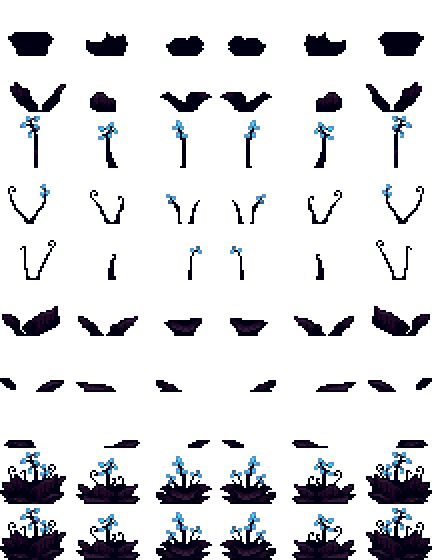
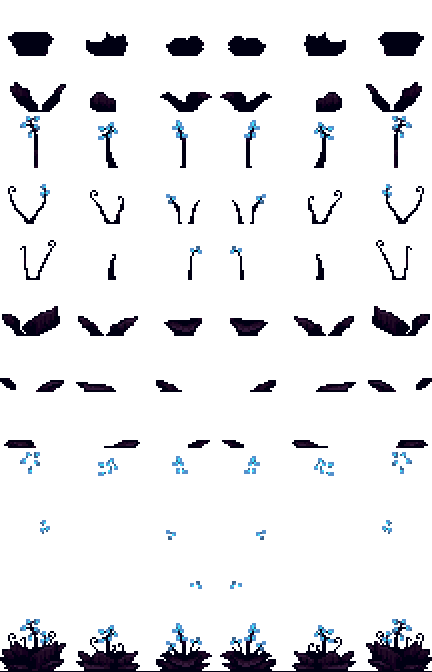
会闪退

diff --git a/Sources/Modules/MythModule/TheFirefly/TileSpin.cs b/Sources/Modules/MythModule/TheFirefly/TileSpin.cs
@@ -3,6 +3,13 @@
     internal class TileSpin
     {
         public static Dictionary<(int, int), Vector2> TileRotation = new Dictionary<(int, int), Vector2>();
+        /// <summary>
+        /// 更新旋转
+        /// </summary>
+        /// <param name="i"></param>
+        /// <param name="j"></param>
+        /// <param name="k1"></param>
+        /// <param name="k2"></param>
         public void Update(int i, int j, float k1 = 0.75f, float k2 = 0.13f)
         {
             if (TileRotation.ContainsKey((i, j)) && !Main.gamePaused)
@@ -19,6 +26,51 @@
                 }
             }
         }
+        /// <summary>
+        /// 更新贴图旋转，并抖落蓝色荧光花粉dust
+        /// </summary>
+        /// <param name="i"></param>
+        /// <param name="j"></param>
+        /// <param name="k1"></param>
+        /// <param name="k2"></param>
+        public void UpdateBlackShrub(int i, int j, float k1 = 0.75f, float k2 = 0.13f, Vector2 offset = new Vector2(), float Addx = 0, float Addy = 0, int width = 16, int height = 16)
+        {
+            if (TileRotation.ContainsKey((i, j)) && !Main.gamePaused)
+            {
+                float rot;
+                float Omega;
+                Omega = TileRotation[(i, j)].X;
+                rot = TileRotation[(i, j)].Y;
+                Omega = Omega * 0.75f - rot * 0.13f;
+                TileRotation[(i, j)] = new Vector2(Omega, rot + Omega);
+                float Strength = Math.Abs(Omega) + Math.Abs(rot);
+                if(Main.rand.NextBool(Math.Clamp((int)(100 - Strength * 1200f * k1), 1, 900)))
+                {
+                    Dust d = Dust.NewDustDirect(new Vector2(i * 16 + Addx, j * 16 + Addy) + offset.RotatedBy(rot), width, height, ModContent.DustType<Dusts.BlueParticleDark>());
+                    Dust d2 = Dust.NewDustDirect(new Vector2(i * 16 + Addx, j * 16 + Addy) + offset.RotatedBy(rot), width, height, ModContent.DustType<Dusts.BlueParticle>());
+                    d.alpha = (int)(255 - Strength * 2000f * k1);
+                    d2.scale = Strength * 10f;
+                    d.scale *= k1;
+                    d.velocity = (offset.RotatedBy(rot) - offset.RotatedBy(rot - Omega)) * k1 * 1f;
+                    d2.scale *= k1;
+                    d2.velocity = (offset.RotatedBy(rot) - offset.RotatedBy(rot - Omega)) * k1 * 1f;
+                }
+                if (Math.Abs(Omega) < 0.001f && Math.Abs(rot) < 0.001f)
+                {
+                    TileRotation.Remove((i, j));
+                }
+            }
+        }
+        /// <summary>
+        /// 专门绘制吊灯的
+        /// </summary>
+        /// <param name="i"></param>
+        /// <param name="j"></param>
+        /// <param name="tex"></param>
+        /// <param name="offsetX"></param>
+        /// <param name="offsetY"></param>
+        /// <param name="specialColor"></param>
+        /// <param name="color"></param>
         public void DrawRotatedChandelier(int i, int j, Texture2D tex, float offsetX = 0, float offsetY = 0, bool specialColor = false, Color color = new Color())
         {
             float rot = 0;
@@ -43,7 +95,16 @@
                 Main.spriteBatch.Draw(tex, new Vector2(i * 16 + offsetX, j * 16 + offsetY) + zero - Main.screenPosition, new Rectangle(tile.TileFrameX - 18, 0, 54, 48), c, rot, new Vector2(27, 0), 1f, SpriteEffects.None, 0f);
             }
         }
-
+        /// <summary>
+        /// 专门绘制吊灯的
+        /// </summary>
+        /// <param name="i"></param>
+        /// <param name="j"></param>
+        /// <param name="tex"></param>
+        /// <param name="offsetX"></param>
+        /// <param name="offsetY"></param>
+        /// <param name="specialColor"></param>
+        /// <param name="color"></param>
         public void DrawRotatedLamp(int i, int j, Texture2D tex, float offsetX = 0, float offsetY = 0, bool specialColor = false, Color color = new Color())
         {
             float rot = 0;
@@ -68,7 +129,18 @@
                 Main.spriteBatch.Draw(tex, new Vector2(i * 16 + offsetX, j * 16 + offsetY) + zero - Main.screenPosition, new Rectangle(tile.TileFrameX, 0, 18, 34), c, rot, new Vector2(9, 0), 1f, SpriteEffects.None, 0f);
             }
         }
-
+        /// <summary>
+        /// 画旋转物块
+        /// </summary>
+        /// <param name="i"></param>
+        /// <param name="j"></param>
+        /// <param name="tex"></param>
+        /// <param name="sourceRectangle"></param>
+        /// <param name="origin"></param>
+        /// <param name="offsetX"></param>
+        /// <param name="offsetY"></param>
+        /// <param name="specialColor"></param>
+        /// <param name="color"></param>
         public void DrawRotatedTile(int i, int j, Texture2D tex, Rectangle sourceRectangle, Vector2 origin, float offsetX = 0, float offsetY = 0, bool specialColor = false, Color color = new Color())
         {
             float rot = 0;
@@ -92,7 +164,20 @@
                 Main.spriteBatch.Draw(tex, new Vector2(i * 16 + offsetX, j * 16 + offsetY) + zero - Main.screenPosition, sourceRectangle, c, rot, origin, 1f, SpriteEffects.None, 0f);
             }
         }
-        public void DrawRotatedTile(int i, int j, Texture2D tex, Rectangle sourceRectangle, Vector2 origin, float offsetX = 0, float offsetY = 0, float kRot = 1)
+        /// <summary>
+        /// 画旋转物块
+        /// </summary>
+        /// <param name="i"></param>
+        /// <param name="j"></param>
+        /// <param name="tex"></param>
+        /// <param name="sourceRectangle"></param>
+        /// <param name="origin"></param>
+        /// <param name="offsetX"></param>
+        /// <param name="offsetY"></param>
+        /// <param name="kRot"></param>
+        /// <param name="specialColor"></param>
+        /// <param name="color"></param>
+        public void DrawRotatedTile(int i, int j, Texture2D tex, Rectangle sourceRectangle, Vector2 origin, float offsetX = 0, float offsetY = 0, float kRot = 1, bool specialColor = false, Color color = new Color())
         {
             float rot = 0;
             Vector2 zero = new Vector2(Main.offScreenRange, Main.offScreenRange);
@@ -101,9 +186,19 @@
                 zero = Vector2.Zero;
             }
             Color c = Lighting.GetColor(i, j);
+            if (specialColor)
+            {
+                c = color;
+            }
             if (TileRotation.ContainsKey((i, j)))
             {
                 rot = TileRotation[(i, j)].Y;
+                if (specialColor)
+                {
+                    float maxC = Math.Max(color.R / 255f, Math.Abs(rot * 3) + Math.Abs(TileRotation[(i, j)].X * 3));
+                    maxC = Math.Clamp(maxC, 0, 1);
+                    c = new Color(maxC, maxC, maxC, 0);
+                }
                 Main.spriteBatch.Draw(tex, new Vector2(i * 16 + offsetX, j * 16 + offsetY) + zero - Main.screenPosition, sourceRectangle, c, rot * kRot, origin, 1f, SpriteEffects.None, 0f);
             }
             else

diff --git a/Sources/Modules/MythModule/TheFirefly/Tiles/BlackStarShrubSmall.cs b/Sources/Modules/MythModule/TheFirefly/Tiles/BlackStarShrubSmall.cs
@@ -53,7 +53,7 @@ namespace Everglow.Sources.Modules.MythModule.TheFirefly.Tiles
                     {
                         if (!TileSpin.TileRotation.ContainsKey((i, j - tile.TileFrameY / 16 + 1)))
                         {
-                            TileSpin.TileRotation.Add((i, j - tile.TileFrameY / 16 + 1), new Vector2(-Math.Clamp(player.velocity.X, -1, 1) * 0.2f));
+                            TileSpin.TileRotation.Add((i, j - tile.TileFrameY / 16 + 1), new Vector2(Math.Clamp(player.velocity.X, -1, 1) * 0.2f));
                         }
                         else
                         {
@@ -63,7 +63,7 @@ namespace Everglow.Sources.Modules.MythModule.TheFirefly.Tiles
                             rot = TileSpin.TileRotation[(i, j - tile.TileFrameY / 16 + 1)].Y;
                             if (Math.Abs(Omega) < 0.04f && Math.Abs(rot) < 0.04f)
                             {
-                                TileSpin.TileRotation[(i, j - tile.TileFrameY / 16 + 1)] = new Vector2(Omega - Math.Clamp(player.velocity.X, -1, 1) * 0.2f, rot + Omega - Math.Clamp(player.velocity.X, -1, 1) * 0.2f);
+                                TileSpin.TileRotation[(i, j - tile.TileFrameY / 16 + 1)] = new Vector2(Omega + Math.Clamp(player.velocity.X, -1, 1) * 0.2f, rot + Omega + Math.Clamp(player.velocity.X, -1, 1) * 0.2f);
                             }
                             if (Math.Abs(Omega) < 0.001f && Math.Abs(rot) < 0.001f)
                             {
@@ -74,7 +74,7 @@ namespace Everglow.Sources.Modules.MythModule.TheFirefly.Tiles
 
                         if (!TileSpin.TileRotation.ContainsKey((i, j - tile.TileFrameY / 16)))
                         {
-                            TileSpin.TileRotation.Add((i, j - tile.TileFrameY / 16), new Vector2(-Math.Clamp(player.velocity.X, -1, 1) * 0.2f));
+                            TileSpin.TileRotation.Add((i, j - tile.TileFrameY / 16), new Vector2(Math.Clamp(player.velocity.X, -1, 1) * 0.2f));
                         }
                         else
                         {
@@ -84,7 +84,7 @@ namespace Everglow.Sources.Modules.MythModule.TheFirefly.Tiles
                             rot = TileSpin.TileRotation[(i, j - tile.TileFrameY / 16)].Y;
                             if (Math.Abs(Omega) < 0.04f && Math.Abs(rot) < 0.04f)
                             {
-                                TileSpin.TileRotation[(i, j - tile.TileFrameY / 16)] = new Vector2(Omega - Math.Clamp(player.velocity.X, -1, 1) * 0.2f, rot + Omega - Math.Clamp(player.velocity.X, -1, 1) * 0.2f);
+                                TileSpin.TileRotation[(i, j - tile.TileFrameY / 16)] = new Vector2(Omega + Math.Clamp(player.velocity.X, -1, 1) * 0.2f, rot + Omega + Math.Clamp(player.velocity.X, -1, 1) * 0.2f);
                             }
                             if (Math.Abs(Omega) < 0.001f && Math.Abs(rot) < 0.001f)
                             {
@@ -101,15 +101,16 @@ namespace Everglow.Sources.Modules.MythModule.TheFirefly.Tiles
             if (tile.TileFrameY == 16)
             {
                 TileSpin tileSpin = new TileSpin();
-                tileSpin.Update(i, j - tile.TileFrameY / 16);
+                tileSpin.UpdateBlackShrub(i, j - tile.TileFrameY / 16, 0.25f, 0.13f, new Vector2(0, -20), 0, 24);
                 tileSpin.Update(i, j - tile.TileFrameY / 16 + 1);
                 Texture2D tex = MythContent.QuickTexture("TheFirefly/Tiles/BlackStarShrubSmallDraw");
-                tileSpin.DrawRotatedTile(i, j - tile.TileFrameY / 16, tex, new Rectangle(tile.TileFrameX, 2, 48, 36),new Vector2(24, 36), 8, 36, 0.25f);
-                tileSpin.DrawRotatedTile(i, j - tile.TileFrameY / 16 + 1, tex, new Rectangle(tile.TileFrameX, 38, 48, 36), new Vector2(24, 36), 8, 20, 1.0f);
-                tileSpin.DrawRotatedTile(i, j - tile.TileFrameY / 16, tex, new Rectangle(tile.TileFrameX, 72, 48, 36), new Vector2(24, 36), 8, 36, 0.3f);
-                tileSpin.DrawRotatedTile(i, j - tile.TileFrameY / 16, tex, new Rectangle(tile.TileFrameX, 110, 48, 36), new Vector2(24, 36), 8, 36, 0.24f);
-                tileSpin.DrawRotatedTile(i, j - tile.TileFrameY / 16, tex, new Rectangle(tile.TileFrameX, 146, 48, 36), new Vector2(24, 36), 8, 36, 0.19f);
-                tileSpin.DrawRotatedTile(i, j - tile.TileFrameY / 16, tex, new Rectangle(tile.TileFrameX, 182, 48, 36), new Vector2(24, 36), 8, 36, 0.27f);
+                tileSpin.DrawRotatedTile(i, j - tile.TileFrameY / 16, tex, new Rectangle(tile.TileFrameX, 2, 48, 36),new Vector2(24, 36), 8, 40, 0.25f);
+                tileSpin.DrawRotatedTile(i, j - tile.TileFrameY / 16 + 1, tex, new Rectangle(tile.TileFrameX, 38, 48, 36), new Vector2(24, 36), 8, 24, 1.0f);
+                tileSpin.DrawRotatedTile(i, j - tile.TileFrameY / 16 + 1, tex, new Rectangle(tile.TileFrameX, 218, 48, 36), new Vector2(24, 36), 8, 24, 1.0f, true, new Color(0.57f, 0.57f, 0.57f, 0));
+                tileSpin.DrawRotatedTile(i, j - tile.TileFrameY / 16, tex, new Rectangle(tile.TileFrameX, 72, 48, 36), new Vector2(24, 36), 8, 40, 0.3f);
+                tileSpin.DrawRotatedTile(i, j - tile.TileFrameY / 16, tex, new Rectangle(tile.TileFrameX, 110, 48, 36), new Vector2(24, 36), 8, 40, 0.24f);
+                tileSpin.DrawRotatedTile(i, j - tile.TileFrameY / 16, tex, new Rectangle(tile.TileFrameX, 146, 48, 36), new Vector2(24, 36), 8, 40, 0.19f);
+                tileSpin.DrawRotatedTile(i, j - tile.TileFrameY / 16, tex, new Rectangle(tile.TileFrameX, 182, 48, 36), new Vector2(24, 36), 8, 40, 0.27f);
             }
             return false;
         }

diff --git a/Sources/Modules/MythModule/TheFirefly/Tiles/BlackStarShrub.cs b/Sources/Modules/MythModule/TheFirefly/Tiles/BlackStarShrub.cs
@@ -126,15 +126,18 @@ namespace Everglow.Sources.Modules.MythModule.TheFirefly.Tiles
                 Texture2D tex = MythContent.QuickTexture("TheFirefly/Tiles/BlackStarShrubDraw");
                 tileSpin.Update(i, j - tile.TileFrameY / 16 + 2);
                 tileSpin.Update(i, j - tile.TileFrameY / 16 + 1);
-                tileSpin.Update(i, j - tile.TileFrameY / 16);
-                tileSpin.DrawRotatedTile(i, j - tile.TileFrameY / 16, tex, new Rectangle(tile.TileFrameX, 0, 72, 56), new Vector2(36, 56), 8, 50, 1);
-                tileSpin.DrawRotatedTile(i, j - tile.TileFrameY / 16, tex, new Rectangle(tile.TileFrameX, 58, 72, 56), new Vector2(36, 56), 8, 50, 1.2f);
-                tileSpin.DrawRotatedTile(i, j - tile.TileFrameY / 16 + 2, tex, new Rectangle(tile.TileFrameX, 114, 72, 56), new Vector2(36, 56), 8, 18, 1.04f);
-                tileSpin.DrawRotatedTile(i, j - tile.TileFrameY / 16 + 2, tex, new Rectangle(tile.TileFrameX, 170, 72, 56), new Vector2(36, 56), 8, 18, 0.75f);
-                tileSpin.DrawRotatedTile(i, j - tile.TileFrameY / 16 + 2, tex, new Rectangle(tile.TileFrameX, 226, 72, 56), new Vector2(36, 56), 8, 18, 0.49f);
-                tileSpin.DrawRotatedTile(i, j - tile.TileFrameY / 16 + 1, tex, new Rectangle(tile.TileFrameX, 282, 72, 56), new Vector2(36, 56), 8, 34, 0.94f);
-                tileSpin.DrawRotatedTile(i, j - tile.TileFrameY / 16 + 1, tex, new Rectangle(tile.TileFrameX, 338, 72, 56), new Vector2(36, 56), 8, 34, 0.24f);
-                tileSpin.DrawRotatedTile(i, j - tile.TileFrameY / 16 + 1, tex, new Rectangle(tile.TileFrameX, 394, 72, 56), new Vector2(36, 56), 8, 34, 0.13f);         
+                tileSpin.UpdateBlackShrub(i, j - tile.TileFrameY / 16, 0.85f, 0.13f, new Vector2(0, -60), 0, 54, 16, 32);
+                tileSpin.DrawRotatedTile(i, j - tile.TileFrameY / 16, tex, new Rectangle(tile.TileFrameX, 0, 72, 56), new Vector2(36, 56), 8, 54, 1);
+                tileSpin.DrawRotatedTile(i, j - tile.TileFrameY / 16, tex, new Rectangle(tile.TileFrameX, 58, 72, 56), new Vector2(36, 56), 8, 54, 1.2f);
+                tileSpin.DrawRotatedTile(i, j - tile.TileFrameY / 16 + 2, tex, new Rectangle(tile.TileFrameX, 114, 72, 56), new Vector2(36, 56), 8, 22, 1.04f);
+                tileSpin.DrawRotatedTile(i, j - tile.TileFrameY / 16 + 2, tex, new Rectangle(tile.TileFrameX, 170, 72, 56), new Vector2(36, 56), 8, 22, 0.75f);
+                tileSpin.DrawRotatedTile(i, j - tile.TileFrameY / 16 + 2, tex, new Rectangle(tile.TileFrameX, 226, 72, 56), new Vector2(36, 56), 8, 22, 0.49f);
+                tileSpin.DrawRotatedTile(i, j - tile.TileFrameY / 16 + 2, tex, new Rectangle(tile.TileFrameX, 450, 72, 56), new Vector2(36, 56), 8, 22, 1.04f, true, new Color(0.67f, 0.67f, 0.67f, 0));
+                tileSpin.DrawRotatedTile(i, j - tile.TileFrameY / 16 + 2, tex, new Rectangle(tile.TileFrameX, 506, 72, 56), new Vector2(36, 56), 8, 22, 0.75f, true, new Color(0.67f, 0.67f, 0.67f, 0));
+                tileSpin.DrawRotatedTile(i, j - tile.TileFrameY / 16 + 2, tex, new Rectangle(tile.TileFrameX, 562, 72, 56), new Vector2(36, 56), 8, 22, 0.49f, true, new Color(0.67f, 0.67f, 0.67f, 0));
+                tileSpin.DrawRotatedTile(i, j - tile.TileFrameY / 16 + 1, tex, new Rectangle(tile.TileFrameX, 282, 72, 56), new Vector2(36, 56), 8, 38, 0.94f);
+                tileSpin.DrawRotatedTile(i, j - tile.TileFrameY / 16 + 1, tex, new Rectangle(tile.TileFrameX, 338, 72, 56), new Vector2(36, 56), 8, 38, 0.24f);
+                tileSpin.DrawRotatedTile(i, j - tile.TileFrameY / 16 + 1, tex, new Rectangle(tile.TileFrameX, 394, 72, 56), new Vector2(36, 56), 8, 38, 0.13f);         
             }
             return false;
         }

diff --git a/Sources/Modules/MythModule/TheFirefly/Dusts/BlueParticleDark.cs b/Sources/Modules/MythModule/TheFirefly/Dusts/BlueParticleDark.cs
@@ -1,0 +1,38 @@
+namespace Everglow.Sources.Modules.MythModule.TheFirefly.Dusts
+{
+    public class BlueParticleDark : ModDust
+    {
+        public override void OnSpawn(Dust dust)
+        {
+            dust.noGravity = true;
+            dust.noLight = false;
+            dust.scale *= 1f;
+            dust.alpha = 0;
+        }
+        public override bool Update(Dust dust)
+        {
+            dust.position += dust.velocity;
+            dust.rotation += 0.1f;
+            dust.velocity *= 0.95f;
+            dust.alpha++;
+            Lighting.AddLight(dust.position, 0, 0, dust.color.B * 0.0015f);
+            if (dust.alpha > 254)
+            {
+                dust.active = false;
+            }
+            return false;
+        }
+        public override Color? GetAlpha(Dust dust, Color lightColor)
+        {
+            float k = (255 - dust.alpha) / 255f;
+            if (dust.scale > 0.6f)
+            {
+                return new Color?(new Color(0f, 0.6f * k, 0.9f * k, 0f));
+            }
+            else
+            {
+                return new Color?(new Color(0, 0.6f * k, 0.9f * k, 0));
+            }
+        }
+    }
+}

diff --git a/Sources/Modules/MythModule/TheFirefly/Dusts/BlueParticle.cs b/Sources/Modules/MythModule/TheFirefly/Dusts/BlueParticle.cs
@@ -1,0 +1,37 @@
+namespace Everglow.Sources.Modules.MythModule.TheFirefly.Dusts
+{
+    public class BlueParticle : ModDust
+    {
+        public override void OnSpawn(Dust dust)
+        {
+            dust.noGravity = true;
+            dust.noLight = false;
+            dust.scale *= 1f;
+            dust.alpha = 0;
+        }
+        public override bool Update(Dust dust)
+        {
+            dust.position += dust.velocity;
+            dust.rotation += 0.1f;
+            dust.scale *= 0.95f;
+            dust.velocity *= 0.95f;
+            Lighting.AddLight(dust.position, 0, 0, dust.color.B * 0.0015f);
+            if (dust.scale < 0.15f)
+            {
+                dust.active = false;
+            }
+            return false;
+        }
+        public override Color? GetAlpha(Dust dust, Color lightColor)
+        {
+            if (dust.scale > 0.6f)
+            {
+                return new Color?(new Color(0f, 0.6f, 0.9f, 0f));
+            }
+            else
+            {
+                return new Color?(new Color(0, 0.6f, 0.9f, (0.6f - dust.scale) / 0.6f));
+            }
+        }
+    }
+}

diff --git a/Sources/Modules/MythModule/TheFirefly/Tiles/DarkCocoon.cs b/Sources/Modules/MythModule/TheFirefly/Tiles/DarkCocoon.cs
@@ -42,8 +42,18 @@ namespace Everglow.Sources.Modules.MythModule.TheFirefly.Tiles
                     }
                 }
             }
-            if (!Main.tile[i, j - 1].HasTile && !Main.tile[i + 1, j - 1].HasTile && !Main.tile[i - 1, j - 1].HasTile)
+            if (!Main.tile[i, j - 1].HasTile && !Main.tile[i + 1, j - 1].HasTile && !Main.tile[i - 1, j - 1].HasTile && !Main.tile[i, j].IsHalfBlock && !Main.tile[i - 1, j].IsHalfBlock && !Main.tile[i + 1, j].IsHalfBlock)
             {
+                for (int x = -1; x < 2; x++)
+                {
+                    for (int y = -3; y < 4; y++)
+                    {
+                        if (Main.tile[i + x, j + y].LiquidAmount > 3)
+                        {
+                            return;
+                        }
+                    }
+                }
                 if (Main.rand.NextBool(8))
                 {
                     Tile t1 = Main.tile[i, j - 1];
